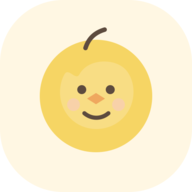
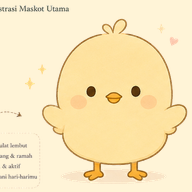
Add files via upload

diff --git a/index.html b/index.html
@@ -7,19 +7,19 @@
   <meta name="apple-mobile-web-app-capable" content="yes" />
   <meta name="apple-mobile-web-app-status-bar-style" content="default" />
   <meta name="apple-mobile-web-app-title" content="Ruang Kecilku" />
-  <link rel="manifest" href="manifest.webmanifest?v=2.0" />
+  <link rel="manifest" href="manifest.webmanifest?v=3.0" />
   <title>Ruang Kecilku</title>
-  <link rel="icon" type="image/svg+xml" href="logo.svg?v=2.0" />
+  <link rel="icon" type="image/svg+xml" href="logo.svg?v=3.0" />
   <link rel="preconnect" href="https://fonts.googleapis.com" />
   <link rel="preconnect" href="https://fonts.gstatic.com" crossorigin />
   <link href="https://fonts.googleapis.com/css2?family=Baloo+2:wght@500;600;700&family=Nunito:wght@400;500;600;700;800&display=swap" rel="stylesheet" />
-  <link rel="stylesheet" href="style.css?v=2.0" />
+  <link rel="stylesheet" href="style.css?v=3.0" />
 </head>
 <body>
   <div class="app-shell">
     <aside class="sidebar">
       <div class="brand">
-        <img src="logo.svg?v=2.0" alt="Logo Ruang Kecilku" class="brand-logo" />
+        <img src="logo.svg?v=3.0" alt="Logo Ruang Kecilku" class="brand-logo" />
         <div>
           <strong>Ruang Kecilku</strong>
           <span>Tempat menyimpan rasa, cerita, dan momen kecil.</span>
@@ -58,7 +58,7 @@
     <main class="main">
       <header class="topbar">
         <div class="mobile-brand">
-          <img src="logo.svg?v=2.0" alt="Logo Ruang Kecilku" class="brand-logo" />
+          <img src="logo.svg?v=3.0" alt="Logo Ruang Kecilku" class="brand-logo" />
           <div>
             <strong>Ruang Kecilku</strong>
             <span>Hangat, ringan, dan personal.</span>
@@ -470,6 +470,6 @@
     </main>
   </div>
 
-  <script src="app.js?v=2.0"></script>
+  <script src="app.js?v=3.0"></script>
 </body>
 </html>

diff --git a/sw.js b/sw.js
@@ -1,11 +1,11 @@
-const CACHE_NAME = "ruang-kecilku-v2";
+const CACHE_NAME = "ruang-kecilku-v3";
 const ASSETS = [
   "./",
-  "./index.html?v=2.0",
-  "./style.css?v=2.0",
-  "./app.js?v=2.0",
-  "./logo.svg?v=2.0",
-  "./manifest.webmanifest?v=2.0",
+  "./index.html?v=3.0",
+  "./style.css?v=3.0",
+  "./app.js?v=3.0",
+  "./logo.svg?v=3.0",
+  "./manifest.webmanifest?v=3.0",
   "./icon-192.png",
   "./icon-512.png"
 ];

diff --git a/app.js b/app.js
@@ -448,6 +448,6 @@ setPage("home");
 
 if ("serviceWorker" in navigator) {
   window.addEventListener("load", () => {
-    navigator.serviceWorker.register("./sw.js?v=2.0").catch(() => {});
+    navigator.serviceWorker.register("./sw.js?v=3.0").catch(() => {});
   });
 }

diff --git a/README.md b/README.md
@@ -1,46 +1,9 @@
-# Ruang Kecilku V2
+# Ruang Kecilku V3 - Piyo Visual
 
-Ruang Kecilku V2 adalah rebuild visual awal dari Teman Harian menjadi aplikasi baru yang berfokus pada tiga hal:
+Pembaruan visual:
+- Piyo minimal sebagai maskot utama
+- Logo dan ikon aplikasi baru
+- Nuansa hangat dan friendly
+- Fondasi untuk fitur Makan, Mood, Cerita, dan Koleksi
 
-- Makan Hari Ini
-- Mood Hari Ini
-- Cerita Hari Ini
-
-## Arah visual
-- Tema hangat dan lembut
-- Piyo-inspired dengan maskot minimal
-- Navigasi baru: Rumah, Makan, Mood, Cerita, Koleksi
-- Desktop dan mobile friendly
-
-## Penyimpanan
-Versi ini masih menggunakan localStorage.
-Belum menggunakan Supabase.
-
-## File utama
-Upload semua file berikut ke root repository GitHub:
-
-- index.html
-- style.css
-- app.js
-- logo.svg
-- manifest.webmanifest
-- sw.js
-- icon-192.png
-- icon-512.png
-
-## Fitur yang tersedia
-- Catatan makan
-- Catatan mood
-- Cerita harian
-- Ringkasan koleksi sederhana
-- Export backup JSON
-- Import backup JSON
-- Reset semua data lokal
-- PWA dasar
-
-## Langkah upload
-1. Hapus file lama di repository jika perlu.
-2. Upload semua file dari paket ini ke root repository.
-3. Commit perubahan.
-4. Tunggu GitHub Pages deploy ulang.
-5. Buka website dan hard refresh jika perubahan belum muncul.
+Upload seluruh isi folder ini ke root repository GitHub Pages.
